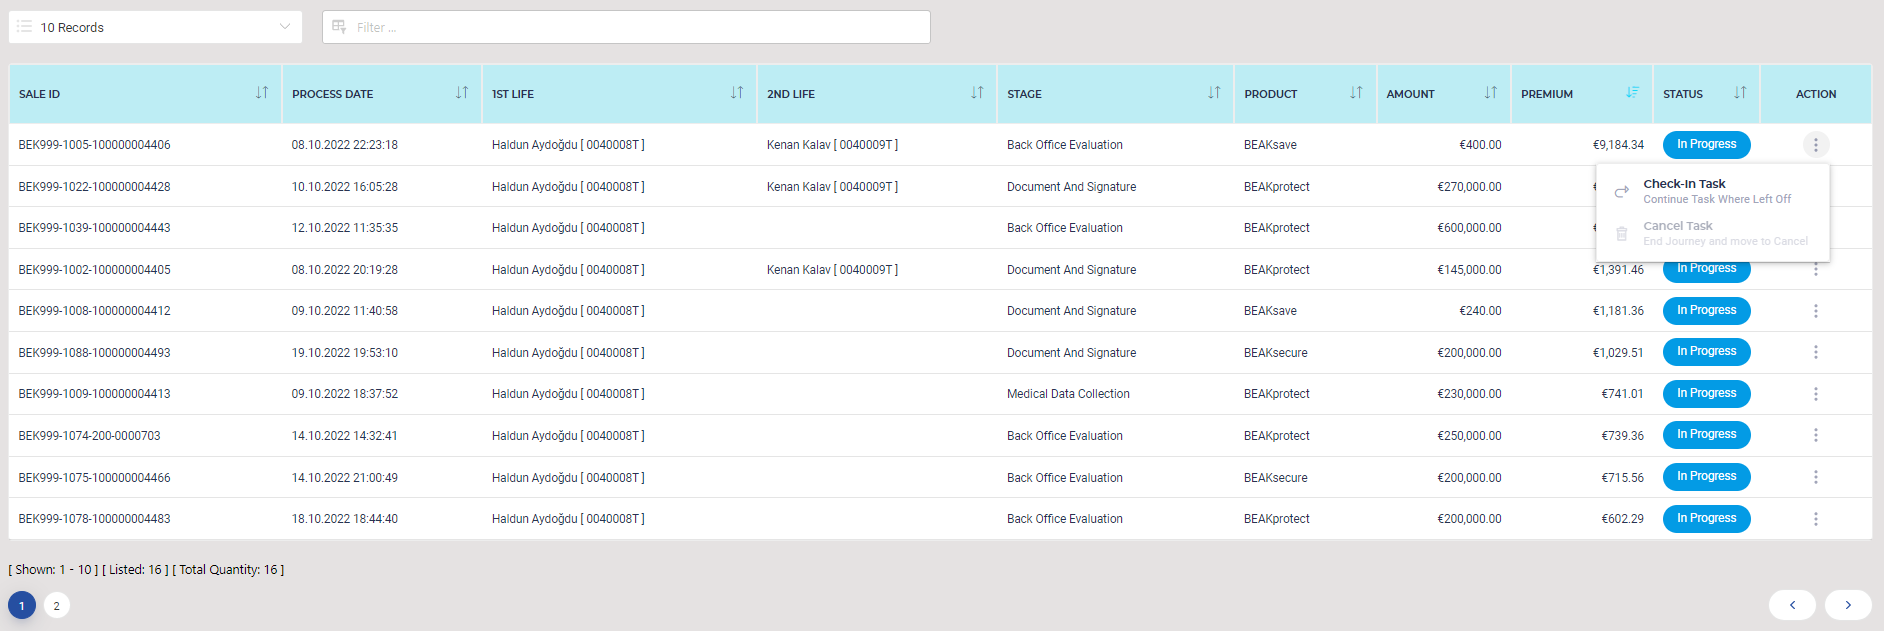
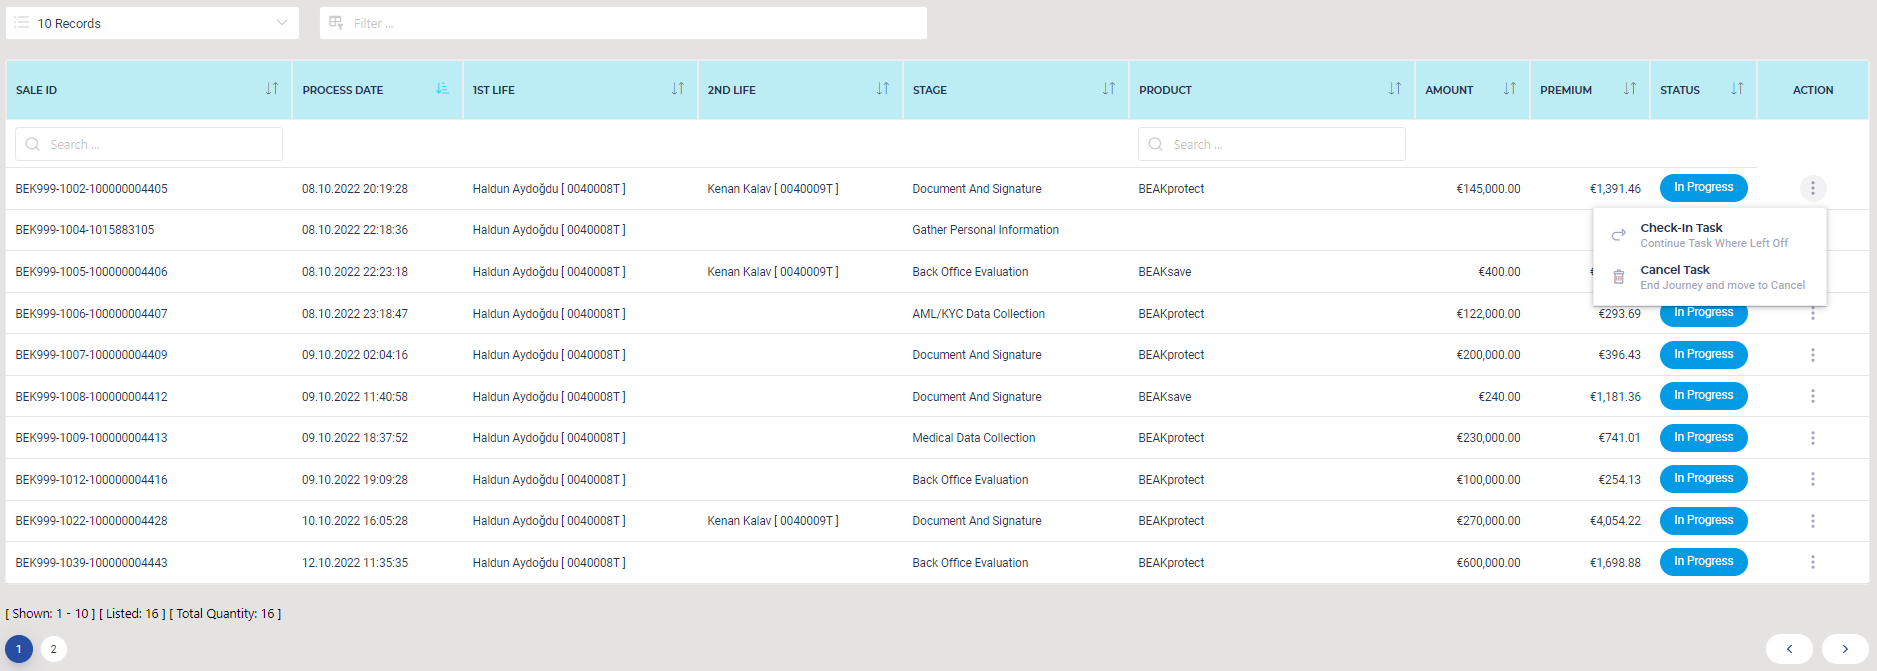
fix

diff --git a/src/App.vue b/src/App.vue
@@ -9,6 +9,7 @@ const columns = ref([
     field: 'saleid',
     type: 'string',
     sortable: true,
+    filterable: true,
   },
   {
     label: { en: 'Process Date', tr: 'Süreç Başlama Tarihi' },
@@ -41,6 +42,7 @@ const columns = ref([
     field: 'product',
     type: 'string',
     sortable: true,
+    filterable: true,
   },
   {
     label: { en: 'Amount', tr: 'Teminat Tutarı' },
